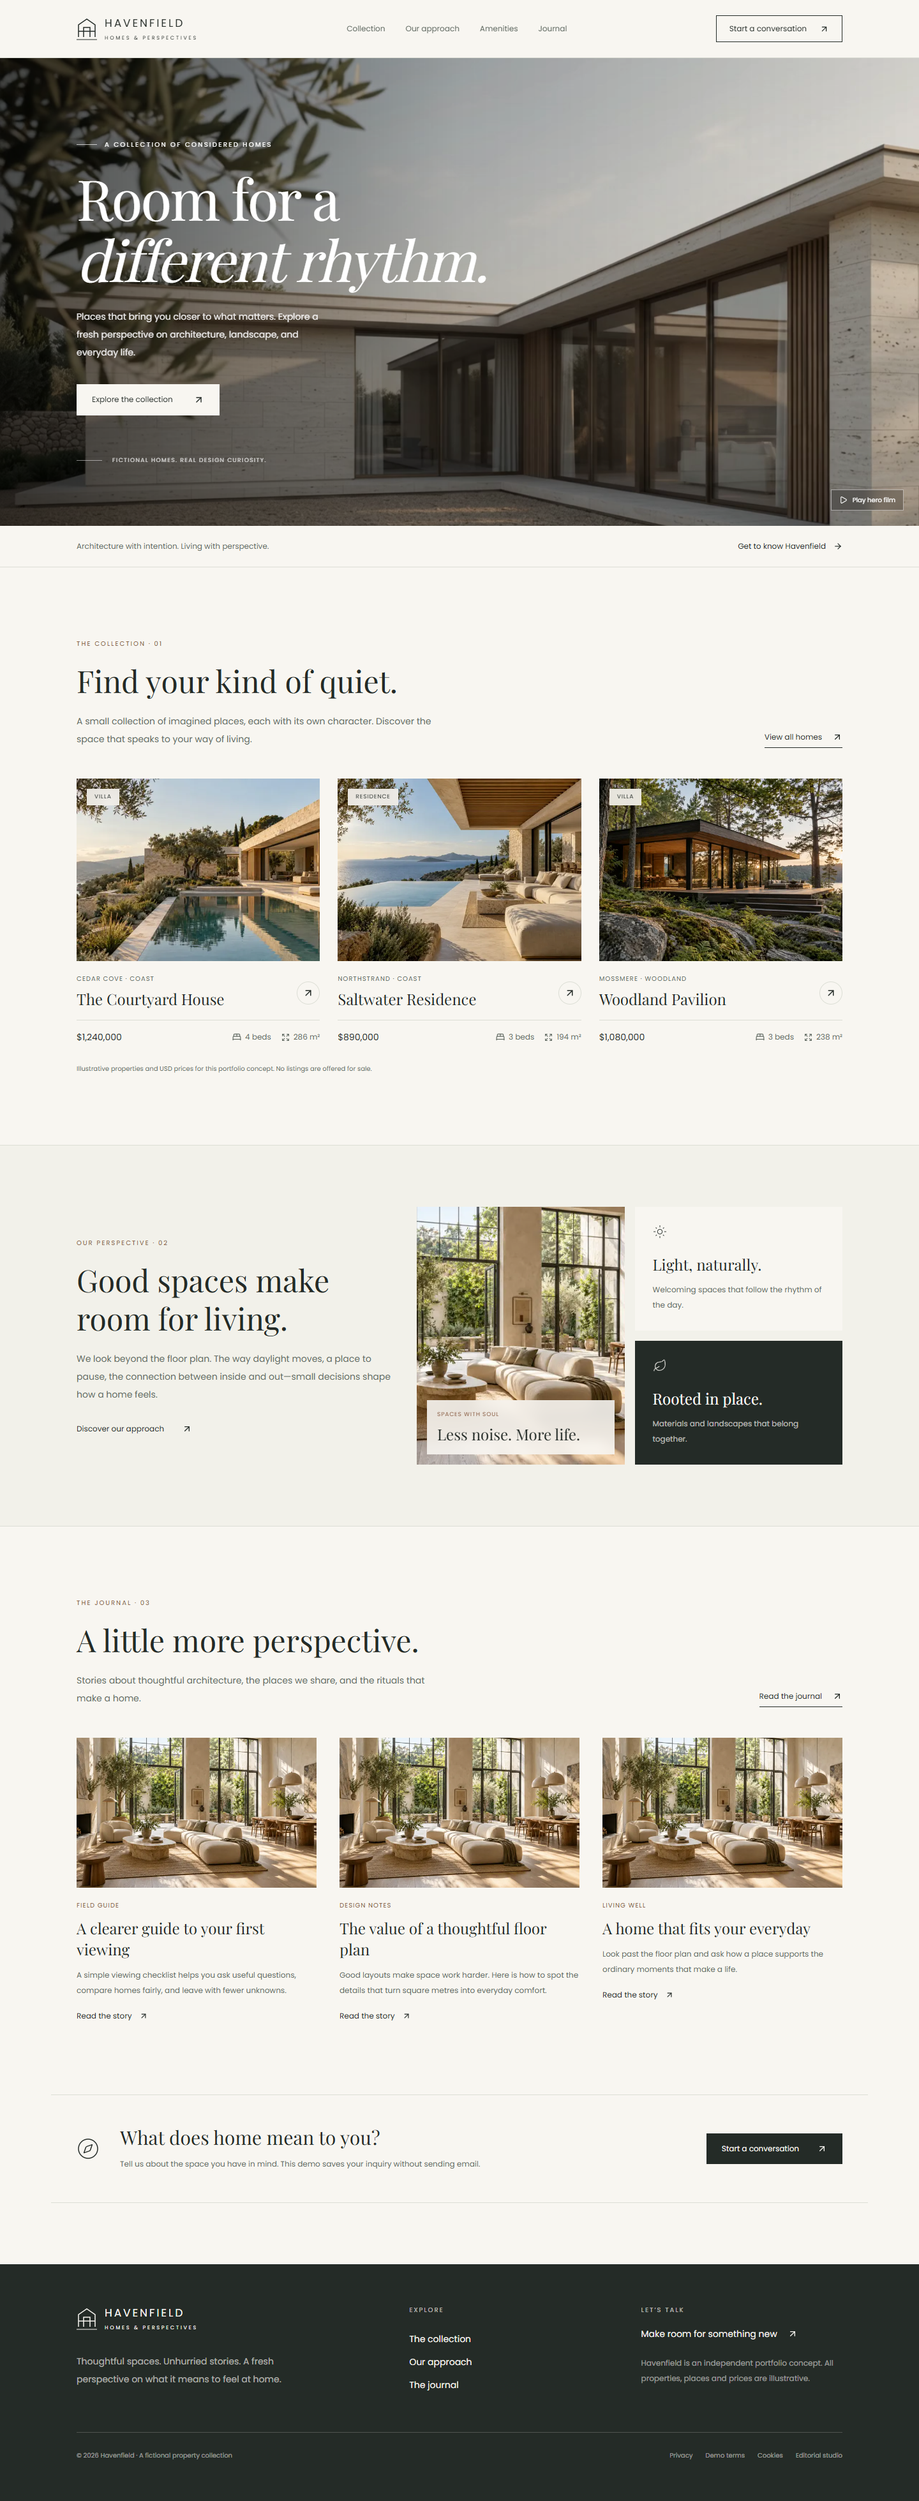
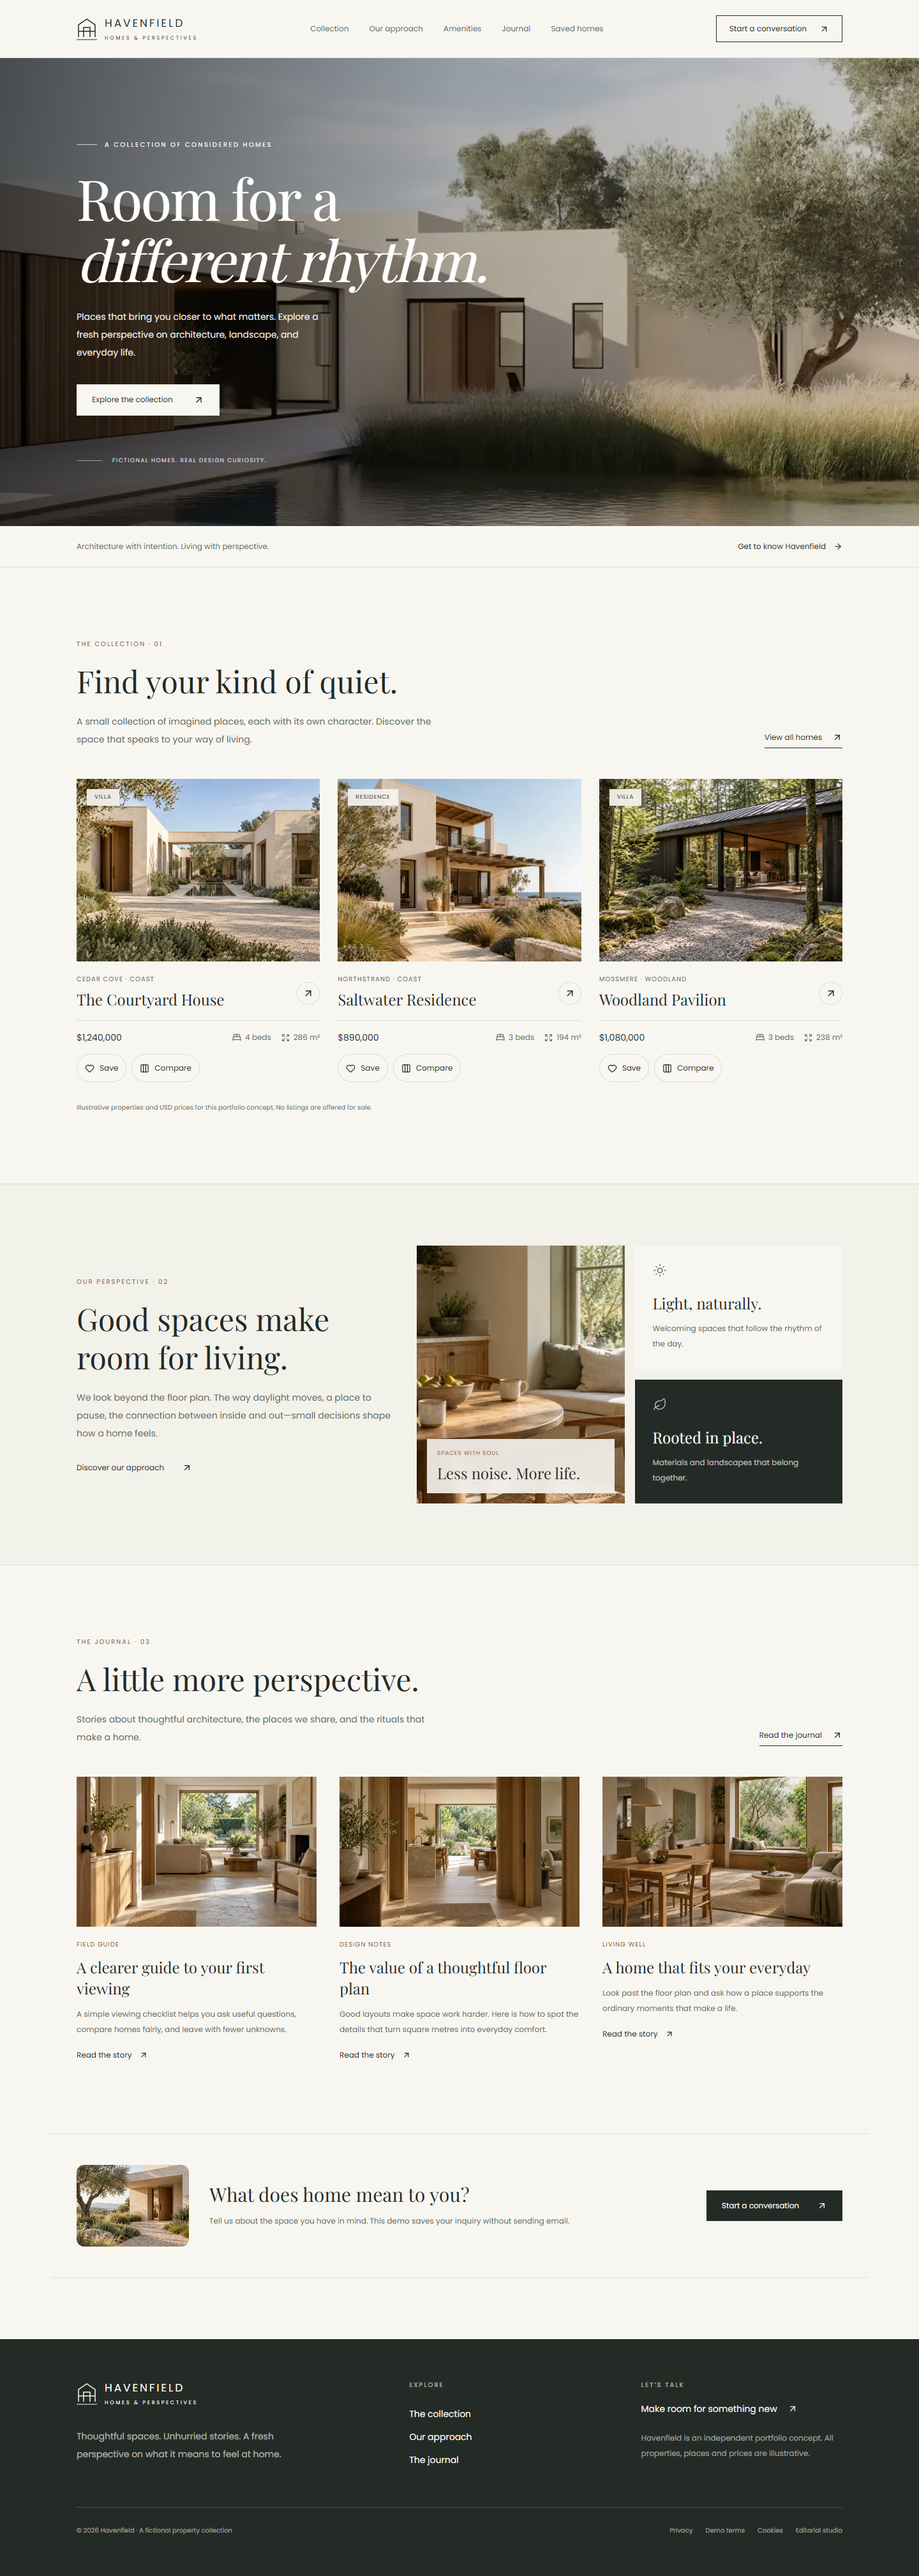
docs: record plan 03 hosted delivery and refresh live screenshots

diff --git a/development-plans/development-plan-03.md b/development-plans/development-plan-03.md
@@ -51,11 +51,11 @@ Base prompt to specialize for each register entry:
 
 > Create an original photorealistic architectural editorial image for Havenfield, a fictional real-estate portfolio. Asset [ID], property [name], view [precise camera position and subject]. Preserve the approved reference building's roofline, openings, materials, layout relationships and landscape. [Detailed materials, furniture, planting and weather.] Natural [time-of-day] light with coherent shadows, realistic scale and straight verticals; approximately 28–50 mm architectural photography, avoiding exaggerated space. [Composition and focal subject], [negative space location] for responsive text placement. Calm ivory, stone, oak, terracotta and sage palette. No identifiable people, writing, brand marks, watermark, real addresses, famous buildings or borrowed developer imagery. Output [landscape/portrait ratio] with sufficient resolution for a 1600–2000 px web master. This scene is invented and must remain consistent with the other views of this fictional home.
 
-- [ ] Produce landscape masters for wide heroes/cards and suitable portrait compositions for vertical about/contact placements; do not stretch a crop to conceal missing composition.
+- [x] Produce landscape masters for wide heroes/cards and suitable portrait compositions for vertical about/contact placements; do not stretch a crop to conceal missing composition.
 - [x] Inspect full-resolution geometry, window reflections, repeated objects, shadow direction and continuity between related shots.
 - [x] Write subject-specific alternative text. Decorative crops use intentional empty alt text; do not describe every image as a generic “luxury property.”
-- [ ] Prefer AVIF/WebP derivatives where measured browser support and size justify them; retain JPEG fallbacks if needed. Strip embedded location/device metadata, declare width/height or a fixed aspect ratio, and use correct `sizes`/focal positions.
-- [ ] Start with roughly 100–250 KiB card images and ≤350 KiB wide hero images as provisional asset budgets; measure perceived quality and real LCP before accepting them. Prioritize only the visible LCP image, lazy-load below-fold media, and preserve the mobile poster-first video behavior.
+- [x] Prefer AVIF/WebP derivatives where measured browser support and size justify them; retain JPEG fallbacks if needed. Strip embedded location/device metadata, declare width/height or a fixed aspect ratio, and use correct `sizes`/focal positions.
+- [x] Start with roughly 100–250 KiB card images and ≤350 KiB wide hero images as provisional asset budgets; measure perceived quality and real LCP before accepting them. Prioritize only the visible LCP image, lazy-load below-fold media, and preserve the mobile poster-first video behavior.
 
 ## Section 05 — Coverage for every page
 
@@ -88,8 +88,8 @@ Base prompt to specialize for each register entry:
 
 ## Section 07 — Admin and domain operations
 
-- [ ] Keep production at `https://havenfieldre.vercel.app`; verify canonical/Open Graph/JSON-LD/RSS/sitemap and mutation origins after every domain change. Preview stays noindex and uses its own exact request origin.
-- [ ] Use the existing single-publisher account or deliberately rotate its credentials using [the admin access guide](admin-access.md). Keep production/preview passwords and session secrets separate; do not add public signup or expose a password hash in the browser.
+- [x] Keep production at `https://havenfieldre.vercel.app`; verify canonical/Open Graph/JSON-LD/RSS/sitemap and mutation origins after every domain change. Preview stays noindex and uses its own exact request origin.
+- [x] Use the existing single-publisher account or deliberately rotate its credentials using [the admin access guide](admin-access.md). Keep production/preview passwords and session secrets separate; do not add public signup or expose a password hash in the browser.
 - [ ] Review old immutable Preview deployment dependencies after rollback deletion; use the currently verified Preview for editorial work. Document only current account resources and dated historical evidence.
 
 ## Section 08 — Execution order and acceptance
@@ -105,12 +105,16 @@ Base prompt to specialize for each register entry:
 
 - [x] Count 28 approved **new source images**, including sixteen property-specific views and three distinct existing-article covers; no recycled crop is counted as a new generation.
 - [ ] Confirm every page family in Section 05 has its assigned content/visual treatment; remove unused generated outputs from the publishable tree.
-- [ ] Run appropriate TypeScript/lint/service/PostgreSQL/browser checks for the code actually changed. Test saved/compare, filters, publication visibility and property/media migrations with meaningful scenarios.
-- [ ] Check populated public/editorial screens at 320-1440 px, reduced motion, keyboard access and automated accessibility/reflow checks. Record human screen-reader/native zoom findings if available; do not claim an unperformed review passed.
+- [x] Run appropriate TypeScript/lint/service/PostgreSQL/browser checks for the code actually changed. Test saved/compare, filters, publication visibility and property/media migrations with meaningful scenarios.
+- [x] Check populated public/editorial screens at 320-1440 px, reduced motion, keyboard access and automated accessibility/reflow checks. Record human screen-reader/native zoom findings if available; do not claim an unperformed review passed.
 - [ ] Record hosted measurements and correct regressions caused by the larger image library; do not substitute one desktop screenshot for performance acceptance.
-- [ ] Update the first-person README screenshot, asset register, operator guidance and release records; keep authored root Markdown limited to README.
-- [ ] Scan staged files and complete Git history for secrets before committing/pushing; verify CI and the exact Git revision deployed by Vercel.
+- [x] Update the first-person README screenshot, asset register, operator guidance and release records; keep authored root Markdown limited to README.
+- [x] Scan staged files and complete Git history for secrets before committing/pushing; verify CI and the exact Git revision deployed by Vercel.
 
 The first execution iteration now contains the 28 new images and visitor/content changes recorded above. Plan 03 remains open for the separately reviewed property-authoring/media slice and release checks recorded in the execution record. Drafts remain private until deliberately published.
 
 Design-tool references: [Motion Primitives](https://motion-primitives.com/), [Haikei](https://haikei.app/) and [Realtime Colors](https://www.realtimecolors.com/). Recheck the chosen component's current API/license during execution; these are optional production aids rather than added runtime dependencies.
+
+## First iteration status (2026-10-17)
+
+03A/03B: the 28 original sources and page integrations are delivered, with the documented pilot-layout sequencing exception. 03C: property narratives and six private drafts are delivered; publication remains a deliberate editorial action. 03D: saved/compare and filter-chip improvements are live. 03E: property authoring and publisher media improvements remain pending as a separate migration slice. 03F: initial CI, hosted verification, local performance measurements and README captures are delivered; repeat these for later code changes. This is not a claim that every Plan 03 feature is finished.

diff --git a/development-plans/development-plan-03-progress.md b/development-plans/development-plan-03-progress.md
@@ -24,7 +24,7 @@ The importer preserves existing slugs and owner edits, skips existing drafts and
 
 ## Validation and release
 
-66 service tests passed, including source/output integrity, coherent gallery assignments, draft privacy, malformed/oversized saved state, the three-home limit and idempotent content imports that retain edited copy/custom covers. TypeScript, lint and the production build passed. All 11 browser journeys passed, including the expanded 320/375/768/1440 px route checks. The property-only loading treatment preserves the existing HTTP article redirects. The [three-run mobile lab evidence](plan03-performance-evidence.json) records median performance 92/93/98 for home/collection/article, median LCP 3.21/3.10/2.47 seconds and median CLS zero. A [focused follow-up](plan03-accessibility-evidence.json) after valid filter grouping/native wordmark naming scores collection accessibility/SEO 100/100; its single-run CLS is 0.073. These are local simulated measurements, not hosted or field results; the home median remains above the 2.5-second LCP target. Public visual captures are stored in screenshots/plan03-*.webp. Hosted results follow after deployment verification.
+66 service tests passed, including source/output integrity, coherent gallery assignments, draft privacy, malformed/oversized saved state, the three-home limit and idempotent content imports that retain edited copy/custom covers. TypeScript, lint and the production build passed. All 11 browser journeys passed, including the expanded 320/375/768/1440 px route checks. The property-only loading treatment preserves the existing HTTP article redirects. The [three-run mobile lab evidence](plan03-performance-evidence.json) records median performance 92/93/98 for home/collection/article, median LCP 3.21/3.10/2.47 seconds and median CLS zero. A [focused follow-up](plan03-accessibility-evidence.json) after valid filter grouping/native wordmark naming scores collection accessibility/SEO 100/100; its single-run CLS is 0.073. These are local simulated measurements, not hosted or field results; the home median remains above the 2.5-second LCP target. Public visual captures are stored in screenshots/plan03-*.webp. [Hosted checks](plan03-hosted-evidence.json), [all-master hash checks](plan03-hosted-assets.json) and [fresh Production captures](plan03-screenshot-evidence.json) now verify this iteration on the live project.
 
 The browser suite covers saving/reload/cross-tab clearing, comparison/removal/limit, 320 px containment and automated accessibility, filter-chip URL preservation, blocked-storage navigation/reload, keyboard galleries and existing inquiry/editorial workflows. It also checks public route reflow at 320, 375, 768 and 1440 px. Human screen-reader, native zoom and field INP are not claimed.
 
@@ -33,6 +33,18 @@ The browser suite covers saving/reload/cross-tab clearing, comparison/removal/li
 1. Publisher-managed property schema and editor: migration preserving IDs/inquiries, draft/public states, gallery ordering and alt editing, optimistic versions, action records, recovery and authorization acceptance.
 2. Publisher media collections, focal/crop preview and stronger usage presentation. Static source-controlled images remain outside upload deletion.
 3. Deliberate review/publication of the six drafts through the existing studio. Published-only recommendations already honor their current visibility.
-4. Final hosted/performance evidence and screenshot refresh for this iteration, followed by those checks for later feature slices.
+4. Further LCP improvements and repeat release checks as later feature slices ship. The initial hosted verification, image checks and README screenshot refresh are delivered.
 
 These are Plan 03 scope, not reopened Plan 02 gates.
+
+## First iteration release (2026-10-17)
+
+Feature source commit: `774741fe33a3d6490de734ec416c5a2c7d79bb4b`. [GitHub Actions run 39035987449](https://github.com/asteroidcrib729/havenfield-next-web-app/actions/runs/39035987449) passed formatting, TypeScript, lint, build, 66 service tests, 41 PostgreSQL tests and 11 browser journeys. Audit found zero vulnerabilities; staged/full-history scans and comparison with 28 private credential values found no exposure.
+
+Production automatically deployed to `dpl_Ccn4AakzYKaHYhBiVynC4Ate9MTW` at https://havenfieldre.vercel.app. Preview deployed the same feature source to `dpl_3SfcP8Cnf2X8T1iwypEH3tLSz16S`, with the existing https://havenfieldre-preview.vercel.app alias updated. Both are READY. No new paid resource or account was created.
+
+All 28 Production master images match the committed hashes. Both environments passed application health, publisher login/logout, six private/noindex drafts, six anonymous draft 404s, three published articles with distinct new covers and a reference-image hash check. Preview access used a fresh same-project development OIDC token held privately; the rollback-only credential was not reused and deployment protection was retained. Preview keeps the Production canonical, its own mutation origin and `noindex, nofollow`.
+
+The unchanged local Preview profile reports PostgreSQL, binding Preview, ready. Its dry run sees all six existing drafts and requires zero inserts or cover updates. Production browser checks passed saved-state reload, three-home comparison, removal and clearing without server mutations. RSS/sitemap exclude the six drafts; the article structured image and canonical use the current Production assets/domain.
+
+The README captures are public-only fresh-browser screenshots from the live site: desktop 1440 by 4035 and mobile 375 by 7202. The retained film uses its poster for this reduced-motion capture. No publisher session or private data appears. The follow-up documentation commit preserves this dated feature-release evidence rather than recursively claiming its own future deployment ID.

diff --git a/README.md b/README.md
@@ -6,7 +6,7 @@ I built Havenfield as an independent real estate portfolio: a fictional property
 
 ![Full Havenfield landing page on the live production website](development-plans/screenshots/home-desktop.png)
 
-I captured this full-page desktop view from the live site on 16 October 2026 (1440 × 3919 pixels); a [full-page mobile capture](development-plans/screenshots/home-mobile.png) is available too.
+I captured this full-page desktop view from the live site on 17 October 2026 (1440 × 4035 pixels); a [full-page mobile capture](development-plans/screenshots/home-mobile.png) is available too (375 × 7202 pixels). Both show the deployed Plan 03 imagery and distinct journal covers.
 
 The application includes shareable property search/filtering, browser-local saved homes, a comparison view for up to three homes, keyboard galleries, a consented demo inquiry workflow, and a journal. My authenticated editorial studio supports draft/published/scheduled articles, interrupted-writing recovery, safe Markdown previews, a reusable media library with reference protection, SEO metadata, normalized categories/tags, revisions/restoration, slug redirects, private previews, and deletion. I can review, archive and delete inquiries, inspect publisher actions, and export a checksummed database-and-image recovery bundle. Public RSS, sitemap and article structured data follow publication visibility.
 
@@ -49,7 +49,7 @@ Local browser checks use installed Edge, temporary synthetic credentials, and is
 
 I published this project to [GitHub](https://github.com/asteroidcrib729/havenfield-next-web-app) with passing clean-checkout CI and connected the existing Vercel project. Pushing to `main` now automatically deploys Production; other branches use Preview.
 
-I have delivered [Plan 02](development-plans/development-plan-02.md): 57 original checklist entries are verified and seven additional verification items are explicitly deferred in [the closure record](development-plans/development-plan-02-closure.md). Independent scheduled cloud backups, human screen-reader sign-off, field INP and full recovered-site/cold-invocation evidence are not claimed. I have started [Plan 03](development-plans/development-plan-03.md) with 28 new original images, matching four-view property galleries, expanded home stories, six private journal drafts and saved/compare improvements. The [execution record](development-plans/development-plan-03-progress.md) tracks validation and the remaining property-authoring/media slice.
+I have delivered [Plan 02](development-plans/development-plan-02.md): 57 original checklist entries are verified and seven additional verification items are explicitly deferred in [the closure record](development-plans/development-plan-02-closure.md). Independent scheduled cloud backups, human screen-reader sign-off, field INP and full recovered-site/cold-invocation evidence are not claimed. I have started [Plan 03](development-plans/development-plan-03.md) with 28 new original images, matching four-view property galleries, expanded home stories, six private journal drafts and saved/compare improvements. This first iteration is live on Production and Preview, with the six drafts kept private in both databases. The [execution record](development-plans/development-plan-03-progress.md) tracks validation and the remaining property-authoring/media slice.
 
 I keep [encrypted backup commands and optional private Drive instructions](development-plans/free-backups.md), plus an [owner accessibility checklist](development-plans/accessibility-owner-review.md). These follow-up checks remain available without blocking the next development iteration.
 
